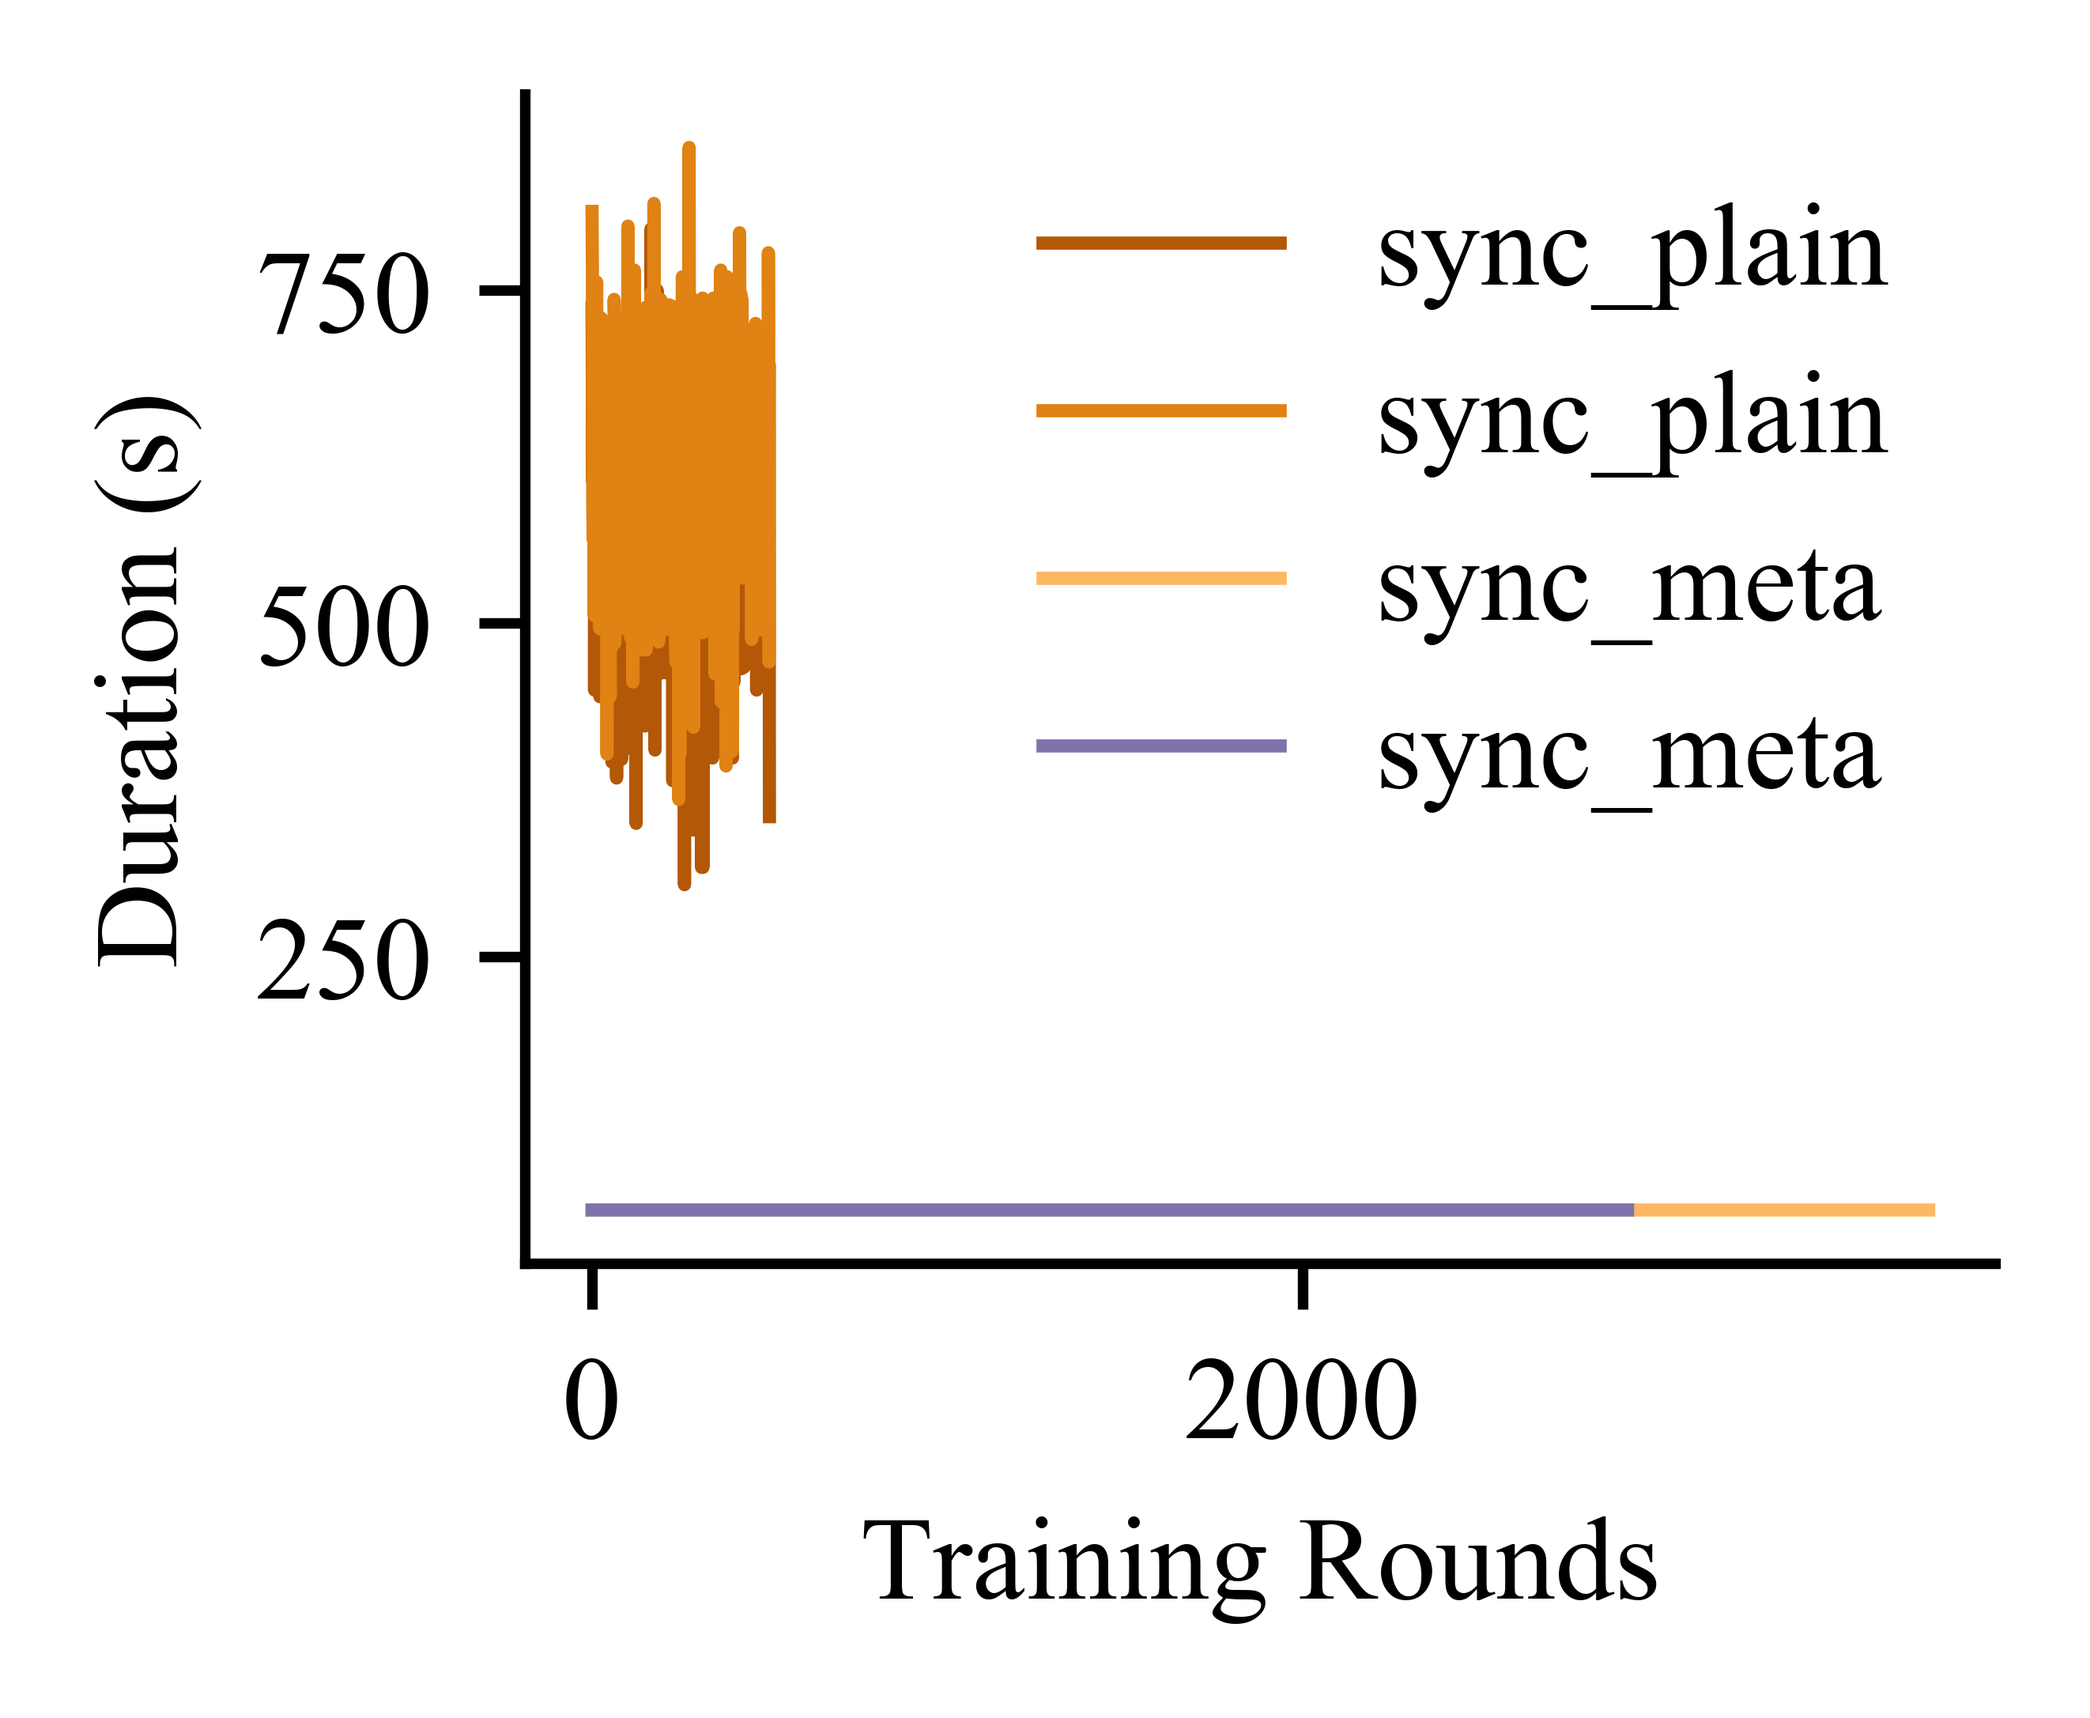
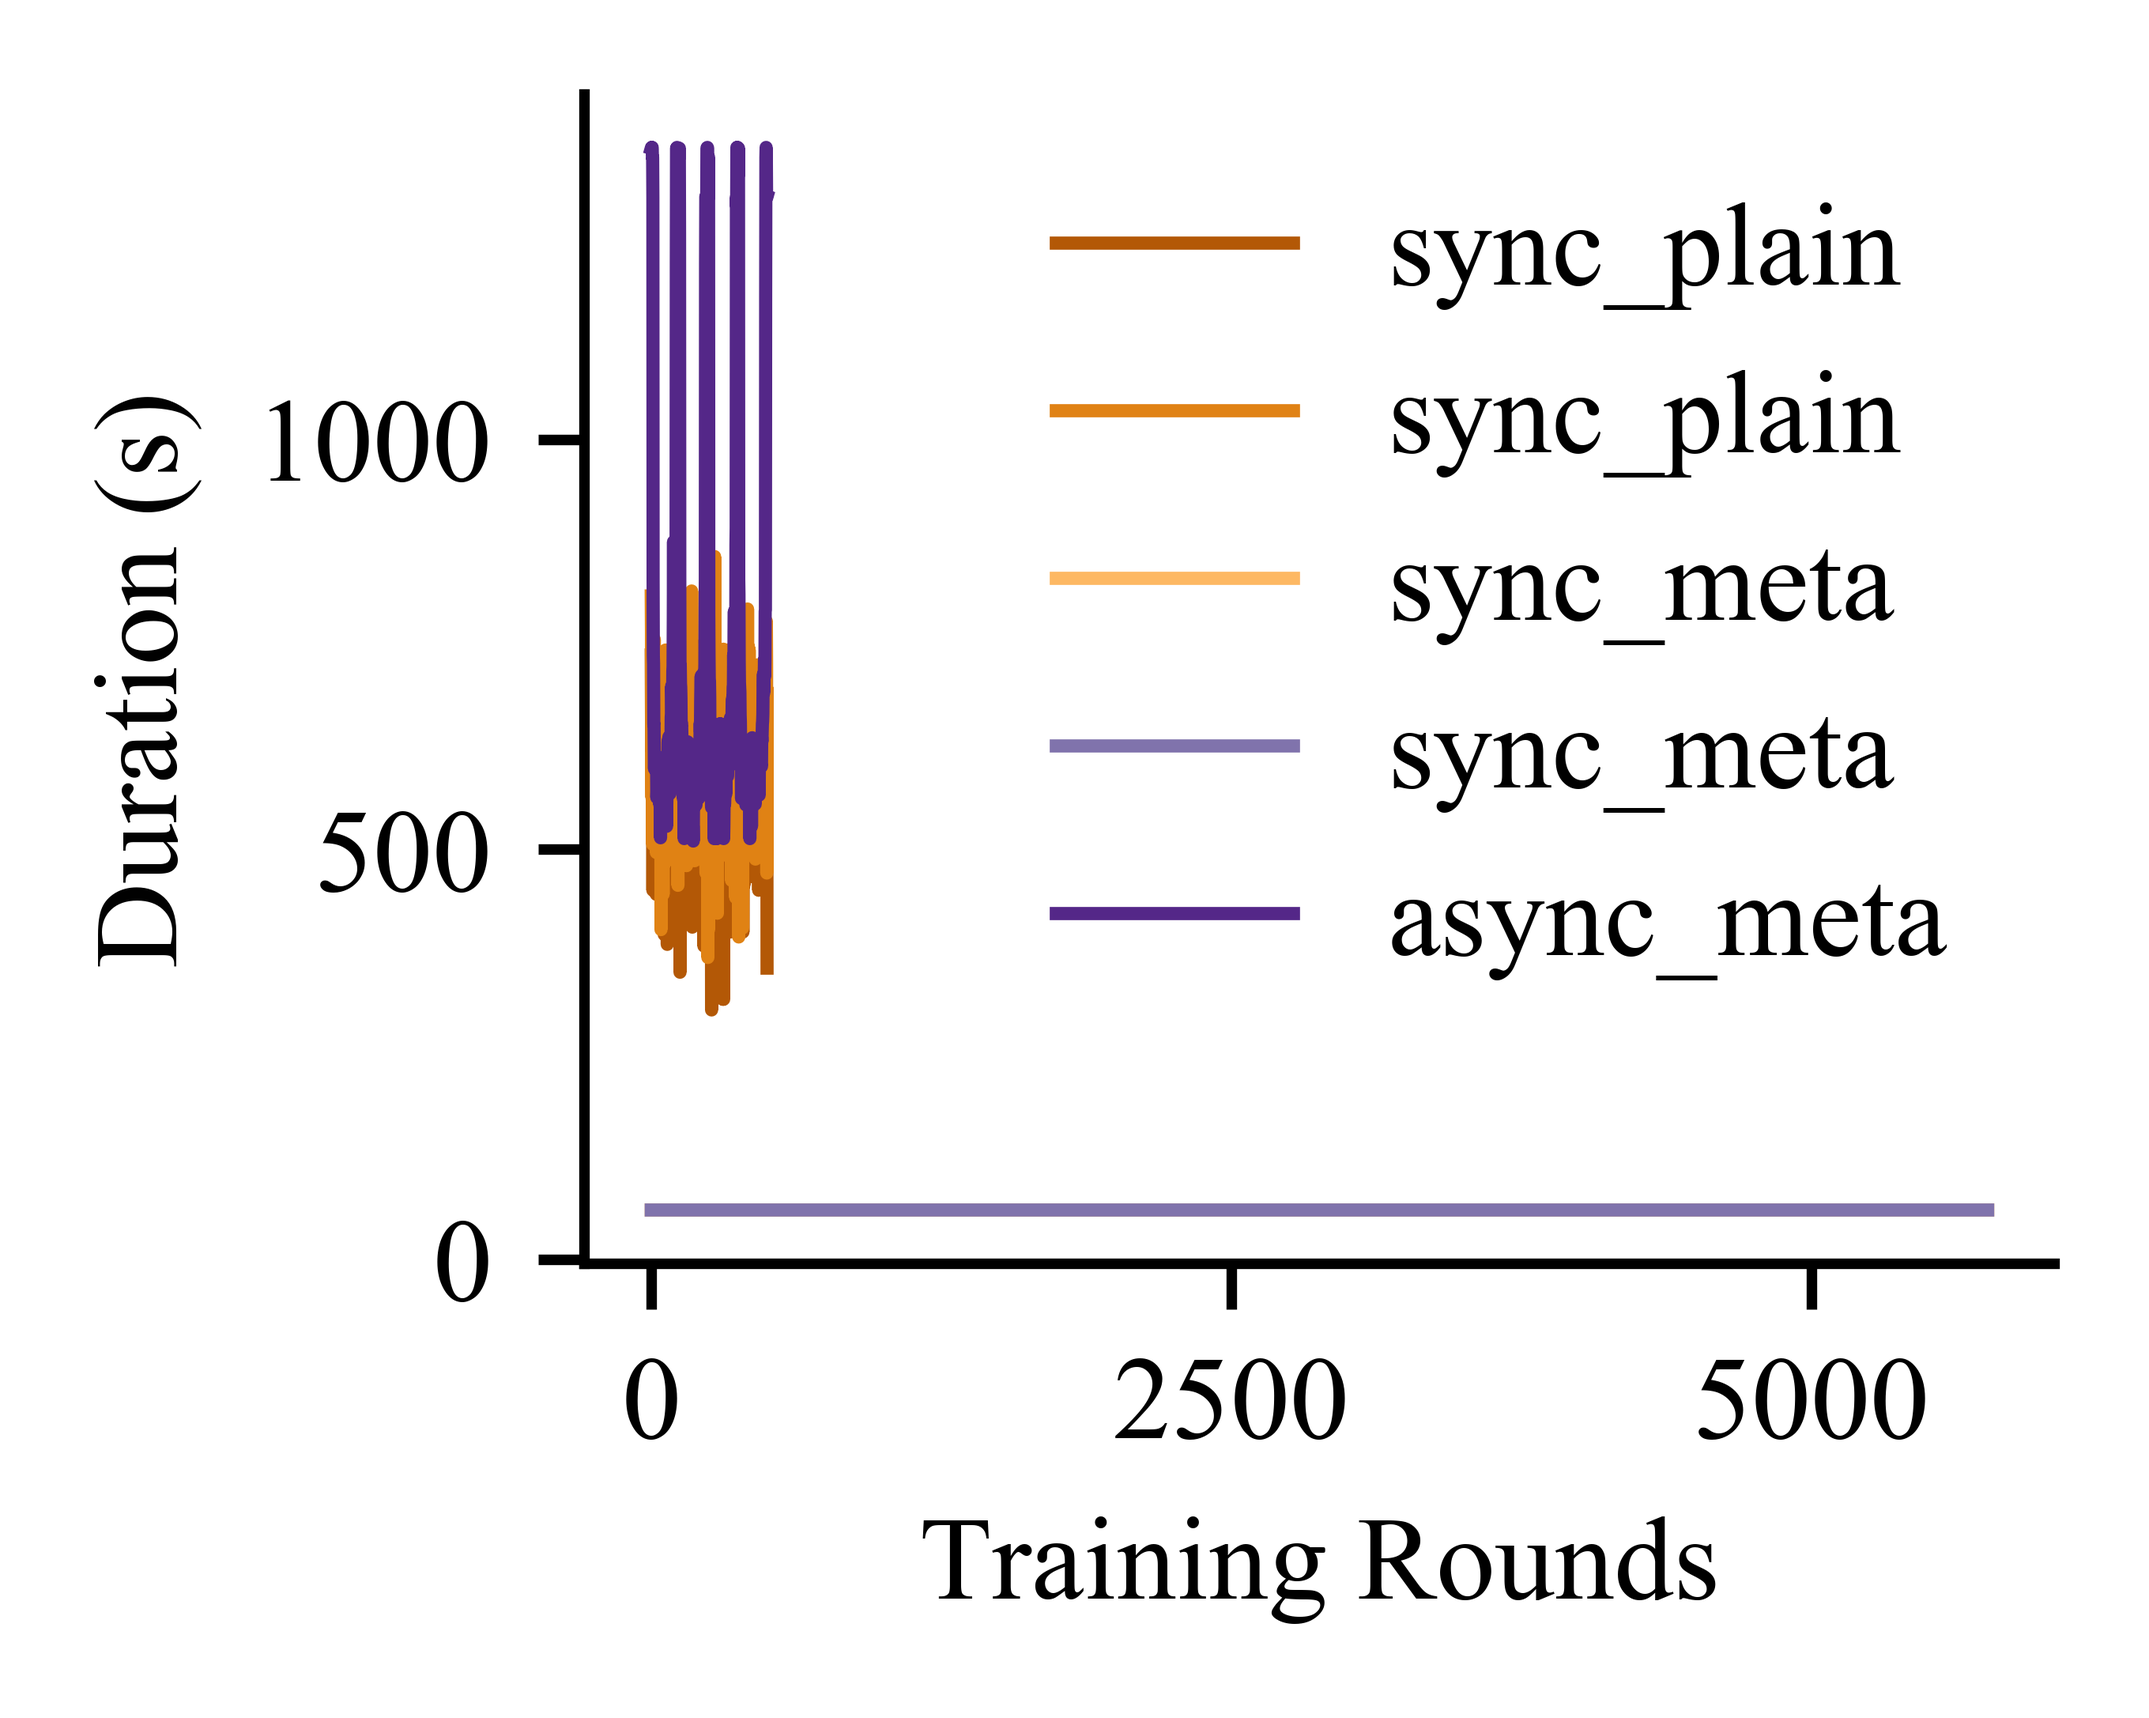
ns

diff --git a/core/evals/my_perf.py b/core/evals/my_perf.py
@@ -16,7 +16,7 @@ def plot_line(datas, xs, linelabels=None, label=None, y_label="CDF", name="my_pl
     fig = plt.figure(figsize=(2, 1.6), dpi=1200)  # 2.5 inch for 1/3 double column width
     ax = fig.add_subplot(111)
 
-    colors = ['#b35806','#e08214','#fdb863','#8073ac','#542788']
+    colors = ['#b35806','#e08214','#fdb863','#8073ac','#542788', '#000000']
     # linetype = ['-']
     linetype = ['-', '--']
     # markertype = ['o', '|', '+', 'x']
@@ -63,7 +63,7 @@ def plot_line_2(datas, xs, linelabels=None, label=None, y_label="CDF", name="my_
     fig = plt.figure(figsize=(2, 1.6), dpi=1200)  # 2.5 inch for 1/3 double column width
     ax = fig.add_subplot(111)
 
-    colors = ['#b35806','#e08214','#fdb863','#8073ac','#542788']
+    colors = ['#b35806','#e08214','#fdb863','#8073ac','#542788', '#000000']
     linetype = ['-']
     # markertype = ['o', '|', '+', 'x']
     #
@@ -106,7 +106,8 @@ def run(task_prefix):
         f"random_none_all_test": "sync_plain",
         f"random_meta_all_test": f"sync_meta",
         f"async_meta_all_test_100_60": "async_meta",
-        f"async_none_all_test_60": "async_plain"
+        f"async_none_all_test_60": "async_plain",
+        f"random_none_larger_all_test": "sync_plain_larger",
     }
 
     # x-axis
